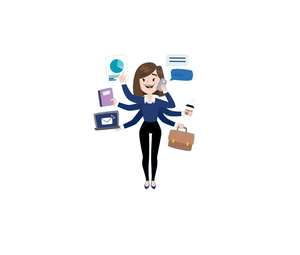
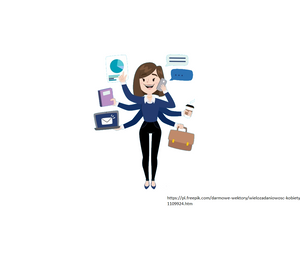
Updated from Publii

Changed region(s): [[0.54, 0.7686, 1.0, 0.8235]]

diff --git a/index.html b/index.html
@@ -1,4 +1,4 @@
-<!DOCTYPE html><html lang="en"><head><meta charset="utf-8"><meta http-equiv="X-UA-Compatible" content="IE=edge"><meta name="viewport" content="width=device-width,initial-scale=1"><title>Natalia Jasinska Portfolio</title><meta name="robots" content="noindex, follow"><meta name="generator" content="Publii Open-Source CMS for Static Site"><link rel="alternate" type="application/atom+xml" href="https://nataliajasinska.github.io/nataliajasinska.github.io/feed.xml"><link rel="alternate" type="application/json" href="https://nataliajasinska.github.io/nataliajasinska.github.io/feed.json"><meta property="og:title" content="Natalia Jasinska Portfolio"><meta property="og:image" content="https://nataliajasinska.github.io/nataliajasinska.github.io/media/website/Untitled2gi.png"><meta property="og:site_name" content="Natalia Jasinska Portfolio"><meta property="og:description" content=""><meta property="og:url" content="https://nataliajasinska.github.io/nataliajasinska.github.io/"><meta property="og:type" content="website"><link rel="preconnect" href="https://fonts.gstatic.com/" crossorigin><style>h1,h2,h3,h4,h5,h6,.btn,[type=button],[type=submit],button,.navbar .navbar__menu li,.navbar_mobile_sidebar .navbar__menu li,.feed__author,.post__tag,.post__share>a span,.post__nav-link>span,.footer{font-family:-apple-system,BlinkMacSystemFont,"Segoe UI",Roboto,Oxygen,Ubuntu,Cantarell,"Fira Sans","Droid Sans","Helvetica Neue",Arial,sans-serif,"Apple Color Emoji","Segoe UI Emoji","Segoe UI Symbol"}body,h1,.h1,blockquote,.search__input,.author__name,.author__info>p,.feed__item h2,.post__nav-link{font-family:-apple-system,BlinkMacSystemFont,"Segoe UI",Roboto,Oxygen,Ubuntu,Cantarell,"Fira Sans","Droid Sans","Helvetica Neue",Arial,sans-serif,"Apple Color Emoji","Segoe UI Emoji","Segoe UI Symbol"}</style><link rel="stylesheet" href="https://nataliajasinska.github.io/nataliajasinska.github.io/assets/css/style.css?v=04d25cdfe88a95b717d81a09e7158db0"><script type="application/ld+json">{"@context":"http://schema.org","@type":"Organization","name":"Natalia Jasinska Portfolio","logo":"https://nataliajasinska.github.io/nataliajasinska.github.io/media/website/Untitled2gi.png","url":"https://nataliajasinska.github.io/nataliajasinska.github.io/"}</script><script src="https://nataliajasinska.github.io/nataliajasinska.github.io/assets/js/ls.parent-fit.min.js?v=f8467455ea5c88e3e51a4f212d2632bd"></script><script async src="https://nataliajasinska.github.io/nataliajasinska.github.io/assets/js/lazysizes.min.js?v=6a69d476c93de2b78a72acb259abccea"></script></head><body><div class="site-container"><header class="top" id="js-header"><a class="logo" href="https://nataliajasinska.github.io/nataliajasinska.github.io/"><img src="https://nataliajasinska.github.io/nataliajasinska.github.io/media/website/Untitled2gi.png" alt="Natalia Jasinska Portfolio"></a><nav class="navbar js-navbar"><button class="navbar__toggle js-toggle" aria-label="Menu" aria-haspopup="true" aria-expanded="false"><span class="navbar__toggle-box"><span class="navbar__toggle-inner">Menu</span></span></button><ul class="navbar__menu"><li><a href="https://nataliajasinska.github.io/nataliajasinska.github.io/about-me.html" target="_self">About me</a></li><li><a href="https://nataliajasinska.github.io/nataliajasinska.github.io/resume.html" target="_self">Resume</a></li></ul></nav><div class="search"><div class="search__overlay js-search-overlay"><div class="search__overlay-inner"><form action="https://nataliajasinska.github.io/nataliajasinska.github.io/search.html" class="search__form"><input class="search__input js-search-input" type="search" name="q" placeholder="search..." autofocus="autofocus"></form><button class="search__close js-search-close" aria-label="Close">Close</button></div></div><button class="search__btn js-search-btn" aria-label="Search"><svg role="presentation" focusable="false"><use xlink:href="https://nataliajasinska.github.io/nataliajasinska.github.io/assets/svg/svg-map.svg#search"/></svg></button></div></header><main><div class="hero"><div class="hero__image"><img class="hero__image-img lazyload" data-src="https://nataliajasinska.github.io/nataliajasinska.github.io/media/website/wielozadaniowosc-kobiety-biznesu_23-2147621359.png" srcset="https://nataliajasinska.github.io/nataliajasinska.github.io/media/website/responsive/wielozadaniowosc-kobiety-biznesu_23-2147621359-xs.png 300w, https://nataliajasinska.github.io/nataliajasinska.github.io/media/website/responsive/wielozadaniowosc-kobiety-biznesu_23-2147621359-sm.png 480w, https://nataliajasinska.github.io/nataliajasinska.github.io/media/website/responsive/wielozadaniowosc-kobiety-biznesu_23-2147621359-md.png 768w, https://nataliajasinska.github.io/nataliajasinska.github.io/media/website/responsive/wielozadaniowosc-kobiety-biznesu_23-2147621359-lg.png 1024w, https://nataliajasinska.github.io/nataliajasinska.github.io/media/website/responsive/wielozadaniowosc-kobiety-biznesu_23-2147621359-xl.png 1360w, https://nataliajasinska.github.io/nataliajasinska.github.io/media/website/responsive/wielozadaniowosc-kobiety-biznesu_23-2147621359-2xl.png 1600w" sizes="(max-width: 1600px) 100vw, 1600px" data-sizes="auto" alt=""></div><header class="hero__content"><div class="wrapper"><h1> </h1><p> </p><div class="post__meta post__meta--author"><a href="https://nataliajasinska.github.io/nataliajasinska.github.io/authors/natalia-jasinska/" class="feed__author invert">Natalia Jasinska</a></div></div></header></div><div class="feed"><article class="feed__item"><header class="wrapper"><div class="feed__meta"><a href="https://nataliajasinska.github.io/nataliajasinska.github.io/authors/natalia-jasinska/" class="feed__author invert">Natalia Jasinska</a> <time datetime="2020-04-23T18:32" class="feed__date">April 23, 2020</time></div><h2><a href="https://nataliajasinska.github.io/nataliajasinska.github.io/project-1.html" class="invert">Project 1</a></h2></header><div class="wrapper"><p></p><a href="https://nataliajasinska.github.io/nataliajasinska.github.io/project-1.html" class="readmore feed__readmore invert">Continue reading...</a></div></article></div></main><footer class="footer"><div class="footer__copyright">Powered by <a href="https://getpublii.com" target="_blank" rel="nofollow noopener noreferrer">Publii Static CMS</a></div><button class="footer__bttop js-footer__bttop" aria-label="Back to top"><svg><title>Back to top</title><use xlink:href="https://nataliajasinska.github.io/nataliajasinska.github.io/assets/svg/svg-map.svg#toparrow"/></svg></button></footer></div><script>window.publiiThemeMenuConfig = {    
+<!DOCTYPE html><html lang="en"><head><meta charset="utf-8"><meta http-equiv="X-UA-Compatible" content="IE=edge"><meta name="viewport" content="width=device-width,initial-scale=1"><title>Natalia Jasinska Portfolio</title><meta name="robots" content="noindex, follow"><meta name="generator" content="Publii Open-Source CMS for Static Site"><link rel="alternate" type="application/atom+xml" href="https://nataliajasinska.github.io/nataliajasinska.github.io/feed.xml"><link rel="alternate" type="application/json" href="https://nataliajasinska.github.io/nataliajasinska.github.io/feed.json"><meta property="og:title" content="Natalia Jasinska Portfolio"><meta property="og:image" content="https://nataliajasinska.github.io/nataliajasinska.github.io/media/website/Untitled2gi.png"><meta property="og:site_name" content="Natalia Jasinska Portfolio"><meta property="og:description" content=""><meta property="og:url" content="https://nataliajasinska.github.io/nataliajasinska.github.io/"><meta property="og:type" content="website"><link rel="preconnect" href="https://fonts.gstatic.com/" crossorigin><style>h1,h2,h3,h4,h5,h6,.btn,[type=button],[type=submit],button,.navbar .navbar__menu li,.navbar_mobile_sidebar .navbar__menu li,.feed__author,.post__tag,.post__share>a span,.post__nav-link>span,.footer{font-family:-apple-system,BlinkMacSystemFont,"Segoe UI",Roboto,Oxygen,Ubuntu,Cantarell,"Fira Sans","Droid Sans","Helvetica Neue",Arial,sans-serif,"Apple Color Emoji","Segoe UI Emoji","Segoe UI Symbol"}body,h1,.h1,blockquote,.search__input,.author__name,.author__info>p,.feed__item h2,.post__nav-link{font-family:-apple-system,BlinkMacSystemFont,"Segoe UI",Roboto,Oxygen,Ubuntu,Cantarell,"Fira Sans","Droid Sans","Helvetica Neue",Arial,sans-serif,"Apple Color Emoji","Segoe UI Emoji","Segoe UI Symbol"}</style><link rel="stylesheet" href="https://nataliajasinska.github.io/nataliajasinska.github.io/assets/css/style.css?v=04d25cdfe88a95b717d81a09e7158db0"><script type="application/ld+json">{"@context":"http://schema.org","@type":"Organization","name":"Natalia Jasinska Portfolio","logo":"https://nataliajasinska.github.io/nataliajasinska.github.io/media/website/Untitled2gi.png","url":"https://nataliajasinska.github.io/nataliajasinska.github.io/"}</script><script src="https://nataliajasinska.github.io/nataliajasinska.github.io/assets/js/ls.parent-fit.min.js?v=f8467455ea5c88e3e51a4f212d2632bd"></script><script async src="https://nataliajasinska.github.io/nataliajasinska.github.io/assets/js/lazysizes.min.js?v=6a69d476c93de2b78a72acb259abccea"></script></head><body><div class="site-container"><header class="top" id="js-header"><a class="logo" href="https://nataliajasinska.github.io/nataliajasinska.github.io/"><img src="https://nataliajasinska.github.io/nataliajasinska.github.io/media/website/Untitled2gi.png" alt="Natalia Jasinska Portfolio"></a><nav class="navbar js-navbar"><button class="navbar__toggle js-toggle" aria-label="Menu" aria-haspopup="true" aria-expanded="false"><span class="navbar__toggle-box"><span class="navbar__toggle-inner">Menu</span></span></button><ul class="navbar__menu"><li><a href="https://nataliajasinska.github.io/nataliajasinska.github.io/about-me.html" target="_self">About me</a></li><li><a href="https://nataliajasinska.github.io/nataliajasinska.github.io/resume.html" target="_self">Resume</a></li></ul></nav><div class="search"><div class="search__overlay js-search-overlay"><div class="search__overlay-inner"><form action="https://nataliajasinska.github.io/nataliajasinska.github.io/search.html" class="search__form"><input class="search__input js-search-input" type="search" name="q" placeholder="search..." autofocus="autofocus"></form><button class="search__close js-search-close" aria-label="Close">Close</button></div></div><button class="search__btn js-search-btn" aria-label="Search"><svg role="presentation" focusable="false"><use xlink:href="https://nataliajasinska.github.io/nataliajasinska.github.io/assets/svg/svg-map.svg#search"/></svg></button></div></header><main><div class="hero"><div class="hero__image"><img class="hero__image-img lazyload" data-src="https://nataliajasinska.github.io/nataliajasinska.github.io/media/website/wielozadaniowosc-kobiety-biznesu_23-2147621359.png" srcset="https://nataliajasinska.github.io/nataliajasinska.github.io/media/website/responsive/wielozadaniowosc-kobiety-biznesu_23-2147621359-xs.png 300w, https://nataliajasinska.github.io/nataliajasinska.github.io/media/website/responsive/wielozadaniowosc-kobiety-biznesu_23-2147621359-sm.png 480w, https://nataliajasinska.github.io/nataliajasinska.github.io/media/website/responsive/wielozadaniowosc-kobiety-biznesu_23-2147621359-md.png 768w, https://nataliajasinska.github.io/nataliajasinska.github.io/media/website/responsive/wielozadaniowosc-kobiety-biznesu_23-2147621359-lg.png 1024w, https://nataliajasinska.github.io/nataliajasinska.github.io/media/website/responsive/wielozadaniowosc-kobiety-biznesu_23-2147621359-xl.png 1360w, https://nataliajasinska.github.io/nataliajasinska.github.io/media/website/responsive/wielozadaniowosc-kobiety-biznesu_23-2147621359-2xl.png 1600w" sizes="(max-width: 1600px) 100vw, 1600px" data-sizes="auto" alt="https://pl.freepik.com/darmowe-wektory/wielozadaniowosc-kobiety-biznesu_1109924.htm"></div><header class="hero__content"><div class="wrapper"><h1> </h1><p> </p><div class="post__meta post__meta--author"><a href="https://nataliajasinska.github.io/nataliajasinska.github.io/authors/natalia-jasinska/" class="feed__author invert">Natalia Jasinska</a></div></div></header></div><div class="feed"><article class="feed__item"><header class="wrapper"><div class="feed__meta"><a href="https://nataliajasinska.github.io/nataliajasinska.github.io/authors/natalia-jasinska/" class="feed__author invert">Natalia Jasinska</a> <time datetime="2020-04-23T18:32" class="feed__date">April 23, 2020</time></div><h2><a href="https://nataliajasinska.github.io/nataliajasinska.github.io/project-1.html" class="invert">Project 1</a></h2></header><div class="wrapper"><p></p><a href="https://nataliajasinska.github.io/nataliajasinska.github.io/project-1.html" class="readmore feed__readmore invert">Continue reading...</a></div></article></div></main><footer class="footer"><div class="footer__copyright">Powered by <a href="https://getpublii.com" target="_blank" rel="nofollow noopener noreferrer">Publii Static CMS</a></div><button class="footer__bttop js-footer__bttop" aria-label="Back to top"><svg><title>Back to top</title><use xlink:href="https://nataliajasinska.github.io/nataliajasinska.github.io/assets/svg/svg-map.svg#toparrow"/></svg></button></footer></div><script>window.publiiThemeMenuConfig = {    
         mobileMenuMode: 'sidebar',
         animationSpeed: 300,
         submenuWidth: 'auto',
